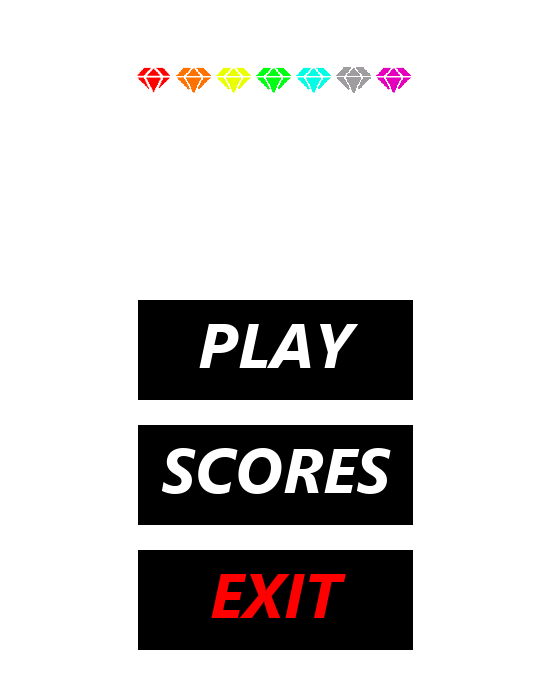
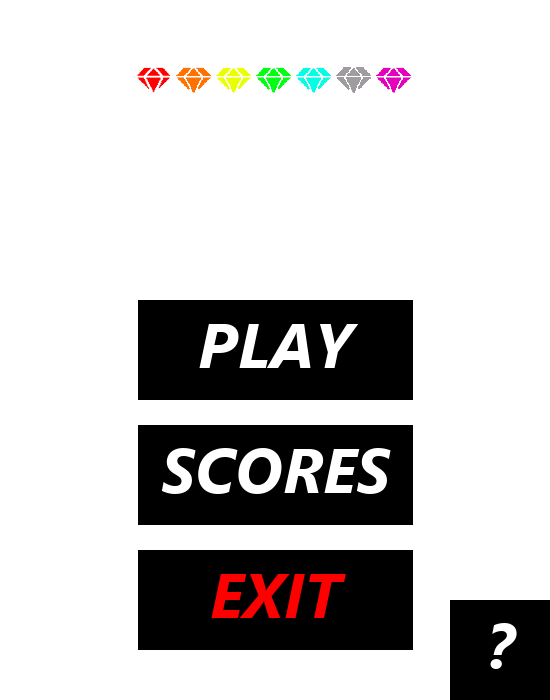
HELP. SCORE. GRAPHIC.

Changed region(s): [[0.8036, 0.84, 1.0, 1.0]]

diff --git a/MatchThree/Score.cpp b/MatchThree/Score.cpp
@@ -6,22 +6,22 @@
 #include <sstream>
 Score::Score()
 {
-	std::string scoreString;
+	
+	backgroundTexture.loadFromFile("images/backgroundScore.png");
+	backgroundSprite.setTexture(backgroundTexture);
 	font.loadFromFile("font.ttf");
+	sf::Vector2f pos;
+	pos.x = 100;
+	pos.y = 90;
 	for (int i = 0; i < 10; i++)
 	{
 		text[i].setFont(font);
-		text[i].setPosition(sf::Vector2f(200.0, 60.0*(i+1)));
+		text[i].setPosition(pos);
 		text[i].setFillColor(sf::Color::White);
+		pos.y += 50;
 	}
 
-	std::ifstream scoreFile;
-	scoreFile.open("score/score.egg");
-	for (int i = 0; i < 10; i++)
-	{
-		std::getline(scoreFile, scoreString);
-		text[i].setString(std::to_string(i+1) + ". " + scoreString.substr(3, scoreString.size()));
-	}
+
 }
 
 
@@ -31,10 +31,59 @@ Score::~Score()
 
 void Score::drawScore(sf::RenderWindow & window)
 {
+	std::ifstream scoreFile;
+	std::string scoreString;
+	scoreFile.open("score/score.egg");
+	for (int i = 0; i < 10; i++)
+	{
+		std::getline(scoreFile, scoreString);
+		text[i].setString(std::to_string(i + 1) + ". " + scoreString.substr(3, scoreString.size()));
+	}
+	scoreFile.close();
+
 	window.clear(sf::Color(40, 40, 40, 255));
-	//window.draw(backgroundSprite);
+	window.draw(backgroundSprite);
 	for (int i = 0; i < 10; i++) window.draw(text[i]);
 	window.display();
+}
+
+int Score::events(sf::Event e, sf::RenderWindow & window)
+{
+	if (e.type == sf::Event::MouseMoved)
+	{
+		
+		sf::Vector2i mousePosition = sf::Mouse::getPosition(window);
+		if (mousePosition.x >= 269 && mousePosition.x <= 269 + 275)
+		{
+			if (mousePosition.y >= 594 && mousePosition.y <= 594 + 100)
+			{
+				backgroundTexture.loadFromFile("images/backgroundScoreSelected.png");
+				backgroundSprite.setTexture(backgroundTexture);
+			}
+			else
+			{
+				backgroundTexture.loadFromFile("images/backgroundScore.png");
+				backgroundSprite.setTexture(backgroundTexture);
+			}
+		}
+		else
+		{
+			backgroundTexture.loadFromFile("images/backgroundScore.png");
+			backgroundSprite.setTexture(backgroundTexture);
+		}
+	}
+	if (e.type == sf::Event::MouseButtonPressed)
+	{
+		sf::Vector2i mousePosition = sf::Mouse::getPosition(window);
+		if (mousePosition.x >= 269 && mousePosition.x <= 269 + 275)
+		{
+			if (mousePosition.y >= 594 && mousePosition.y <= 594 + 100)
+			{
+				return 0;
+			}
+		}
+	}
+	return 2;
 }
 
 void Score::checkIfTop(int score)

diff --git a/MatchThree/Game.cpp b/MatchThree/Game.cpp
@@ -8,7 +8,7 @@
 #include "settings.h"
 Game::Game()
 {
-	backgroundTexture.loadFromFile("images/background.png");
+	backgroundTexture.loadFromFile("images/bg.png");
 	backgroundSprite.setTexture(backgroundTexture);
 	font.loadFromFile("font.ttf");
 	offset.x = OFFSET_X;
@@ -43,7 +43,7 @@ void Game::prepareBoard()
 	int i, j, tempType;
 	srand(time(NULL));
 	sf::Vector2f position;
-	sftime = sf::seconds(3);
+	sftime = sf::seconds(60);
 	isMoving = false;
 	isSwap = true;
 	isMatch = false;
@@ -100,6 +100,7 @@ bool Game::finishGame()
 		gameOverInfoText.setString("CLICK SPACE TO PLAY AGAIN");
 		Score *scoreTable = new Score;
 		scoreTable->checkIfTop(score);
+		printf("\n SCORE: %i", score);
 		delete scoreTable;
 	}
 	else game = true;
@@ -108,20 +109,20 @@ bool Game::finishGame()
 int Game::events(sf::Event e, sf::RenderWindow &window)
 {
 	if (e.type == sf::Event::MouseButtonPressed)
+	{
+		mousePosition = sf::Mouse::getPosition(window);
+		if (mousePosition.x <= offset.x + TILESIZE*SIZE_X &&
+			mousePosition.y <= offset.y + TILESIZE*SIZE_Y &&
+			mousePosition.x > offset.x &&
+			mousePosition.y > offset.y)
 		{
-			mousePosition = sf::Mouse::getPosition(window);
-			if (mousePosition.x <= offset.x + TILESIZE*SIZE_X &&
-				mousePosition.y <= offset.y + TILESIZE*SIZE_Y &&
-				mousePosition.x > offset.x &&
-				mousePosition.y > offset.y)
+			if (isMoving == false)
 			{
-				if (isMoving == false)
-				{
-					clicked++;
-				}
-				mousePosition -= offset;
+				clicked++;
 			}
+			mousePosition -= offset;
 		}
+	}
 	if (e.type == sf::Event::KeyPressed)
 		{
 			if (sf::Keyboard::isKeyPressed(sf::Keyboard::Space))

diff --git a/MatchThree/MatchThree.cpp b/MatchThree/MatchThree.cpp
@@ -8,6 +8,7 @@
 #include "Game.h"
 #include "Menu.h"
 #include "Score.h"
+#include "Help.h"
 #include "MatchThree.h"
 #include "settings.h"
 
@@ -19,6 +20,7 @@ int main()
 	Game *game = new Game;
 	Menu *menu = new Menu;
 	Score *score = new Score;
+	Help *help = new Help;
 	int frame = 0;
 	bool play = false;
 
@@ -31,38 +33,48 @@ int main()
 			{
 				window.close();
 			}
-			if (frame == 1) 
-			{ 
-				frame = game->events(e, window); 
-			}
-			else if(frame == 0)
+			switch (frame)
 			{
+			case 1:
+				frame = game->events(e, window);
+				break;
+			case 0:
 				frame = menu->events(e, window);
-				if (frame == 1)
-				{
-					game->prepareBoard();
-				}
-			}
-			else if (frame == 2)
-			{
-				
+				if (frame == 1)	game->prepareBoard();
+				break;
+			case 2:
+				frame = score->events(e, window);
+				break;
+			case 3:
+				frame = help->events(e, window);
+			default:
+				break;
+
 			}
 		}
-		if (frame == 1)
+		switch (frame)
 		{
+		case 0:
+			menu->drawMenu(window);
+			break;
+		case 1:
 			play = game->gameEngine();
 			if (play) frame = 1;
 			else frame = 0;
 			game->drawing(window);
-		}
-		else if(frame == 0)
-		{
-			menu->drawMenu(window);
-		}
-		else if (frame == 2)
-		{
+			break;
+		case 2:
 			score->drawScore(window);
+			break;
+		case 3:
+			help->drawHelp(window);
+			break;
+		default:
+			break;
 		}
+
+
+
 
 	}
 

diff --git a/MatchThree/Menu.cpp b/MatchThree/Menu.cpp
@@ -48,6 +48,19 @@ int Menu::events(sf::Event e, sf::RenderWindow &window)
 				backgroundSprite.setTexture(backgroundTexture);
 			}
 		}
+		else if (mousePosition.x >= 450 && mousePosition.x <= 450+100)
+		{
+			if (mousePosition.y >= 600 && mousePosition.y <= 600 + 100)
+			{
+				backgroundTexture.loadFromFile("images/menuHelp.png");
+				backgroundSprite.setTexture(backgroundTexture);
+			}
+			else
+			{
+				backgroundTexture.loadFromFile("images/menu.png");
+				backgroundSprite.setTexture(backgroundTexture);
+			}
+		}
 		else 
 		{
 			backgroundTexture.loadFromFile("images/menu.png");
@@ -69,6 +82,13 @@ int Menu::events(sf::Event e, sf::RenderWindow &window)
 			else if (mousePosition.y >= 550 && mousePosition.y <= 650)
 			{
 				window.close();
+			}
+		}
+		else if (mousePosition.x >= 450 && mousePosition.x <= 450 + 100)
+		{
+			if (mousePosition.y >= 600 && mousePosition.y <= 600 + 100)
+			{
+				return 3;
 			}
 		}
 	}

diff --git a/MatchThree/Help.cpp b/MatchThree/Help.cpp
@@ -1,0 +1,36 @@
+#include "stdafx.h"
+#include "Help.h"
+
+
+Help::Help()
+{
+	font.loadFromFile("font.ttf");
+	text.setFont(font);
+	text.setPosition(sf::Vector2f(0.0, 0.0));
+	text.setString("CLICK SPACE TO START AGAIN. \nCLICK ESCAPE TO LEAVE. \nDESTROY EVERYTHING. \nICE BLOCKS BLOCK GEMS AND \nCANNOT BE MOVED. \nTO DESTROY THEM MOVE \nNEARBY GEMS.\n\n\n\n TO LEAVE PRESS ESC.");
+}
+
+
+Help::~Help()
+{
+}
+
+void  Help::drawHelp(sf::RenderWindow &window)
+{
+	window.clear(sf::Color(40, 40, 40, 255));
+	window.draw(text);
+	window.display();
+}
+int Help::events(sf::Event e, sf::RenderWindow &window)
+{
+	if (e.type == sf::Event::KeyPressed)
+	{
+		if (sf::Keyboard::isKeyPressed(sf::Keyboard::Escape))
+		{
+			return 0;
+		}
+	}
+
+
+	return 3;
+}

diff --git a/MatchThree/Help.h b/MatchThree/Help.h
@@ -1,0 +1,15 @@
+#pragma once
+#include <SFML\Graphics.hpp>
+class Help
+{
+private:
+	sf::Font font;
+	sf::Text text;
+public:
+	Help();
+	~Help();
+
+	int events(sf::Event e, sf::RenderWindow &window);
+	void drawHelp(sf::RenderWindow &window);
+};
+
